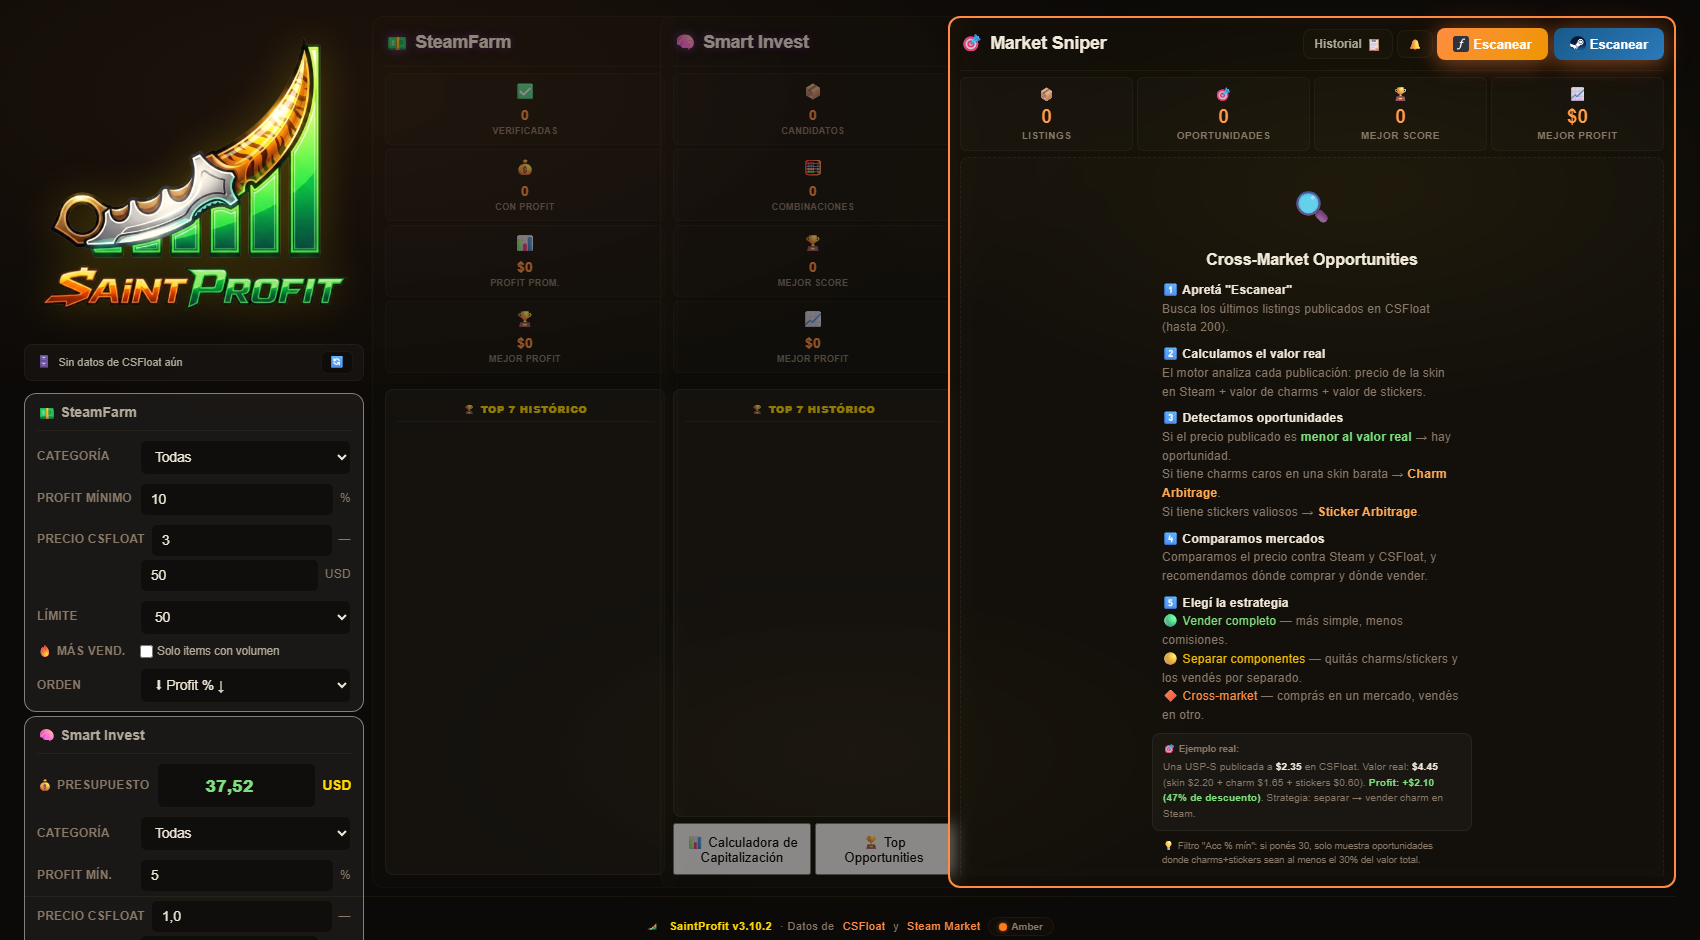
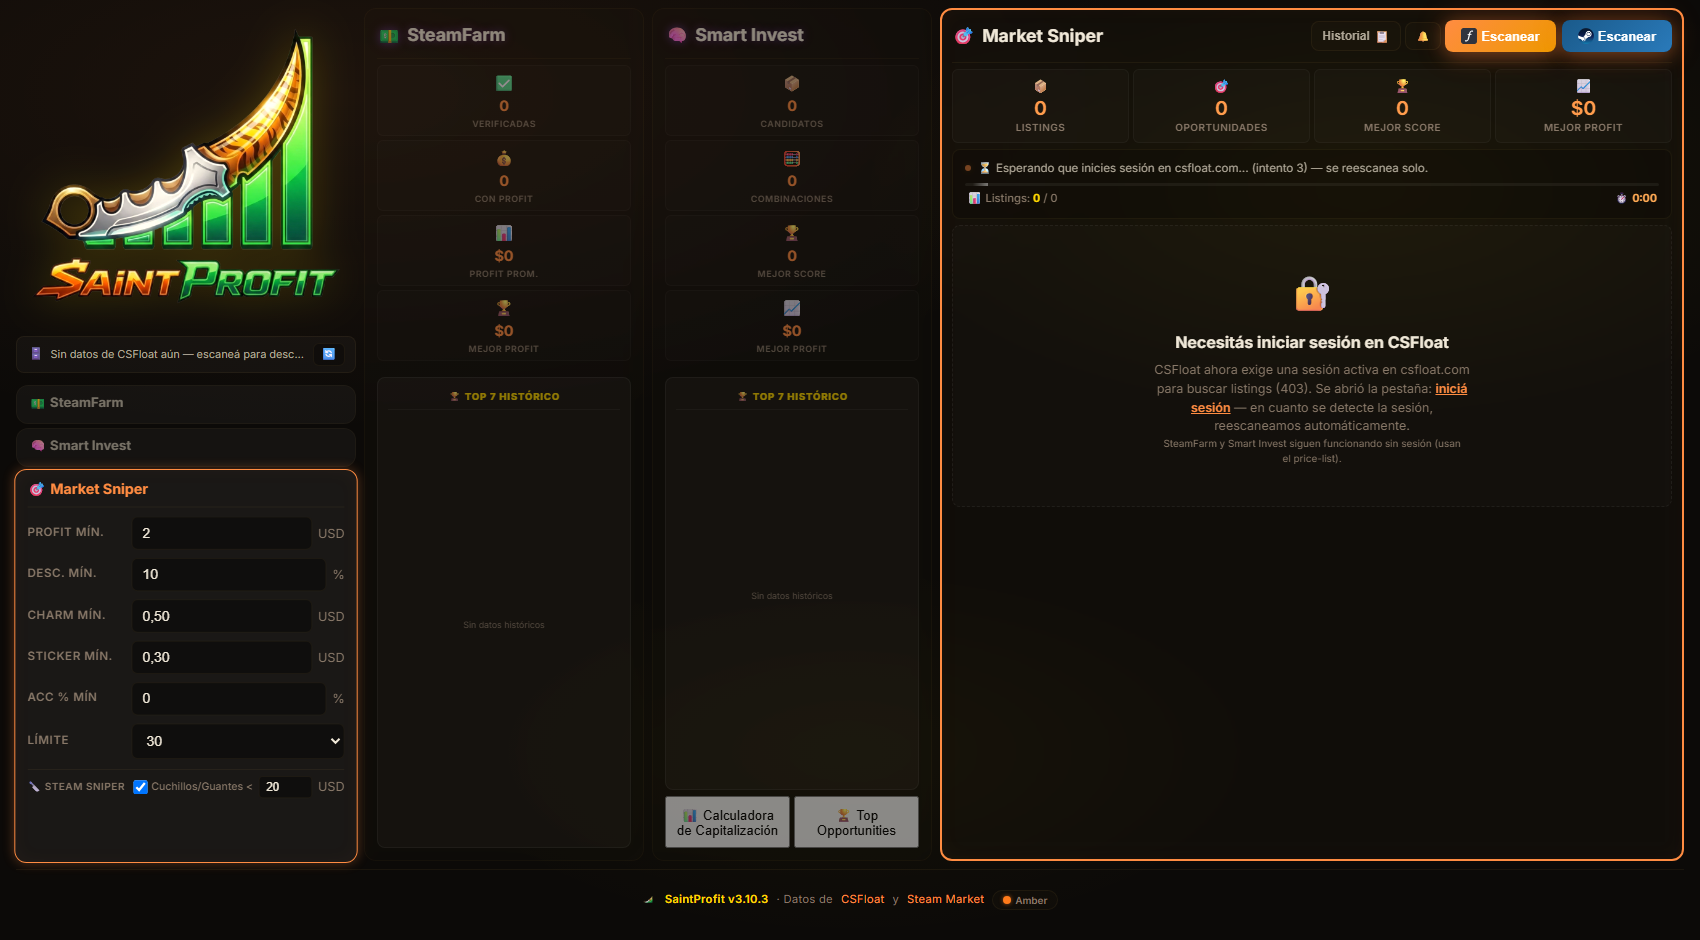
SaintProfit docs — Captura Market Sniper con sesión csfloat.com + avisos en README y docs
La captura del modo Market Sniper ahora muestra el estado "Necesitás
iniciar sesión en CSFloat" (v3.10.3), y el README y el sitio documentan
que los listings requieren sesión iniciada en csfloat.com y el reescaneo
automático al detectarla.

Generated with Codebuff 🤖

diff --git a/docs/index.html b/docs/index.html
@@ -131,6 +131,7 @@
           <span class="mode-chip chip-red">🎯 Market Sniper</span>
           <h3>Cazá publicaciones mal valoradas</h3>
           <p>Detecta listings donde el vendedor puso mal el precio: skins con charms caros que no valoró, stickers escondidos, o cuchillos/guantes publicados muy por debajo de su valor.</p>
+          <div class="note">🔐 <strong>Requiere sesión de csfloat.com</strong> (desde v3.10.3): sin sesión la app te avisa y abre la pestaña para iniciar sesión; al detectarla, reescanea sola.</div>
           <ul class="mode-points">
             <li>✅ 🔪 Alerta roja automática: cuchillos/guantes &lt; $20 en Steam</li>
             <li>✅ Valor real = skin + charms + stickers (calculado de verdad)</li>
@@ -139,8 +140,8 @@
           </ul>
         </div>
         <div class="screenshot">
-          <img src="assets/screenshots/mode-sniper.png" alt="Captura del modo Market Sniper con el tema Amber" loading="lazy">
-          <span class="shot-caption">🎯 Market Sniper · tema Amber</span>
+          <img src="assets/screenshots/mode-sniper.png" alt="Captura del modo Market Sniper pidiendo sesión de csfloat.com (tema Amber)" loading="lazy">
+          <span class="shot-caption">🎯 Market Sniper · sin sesión, pedís login en csfloat.com (tema Amber)</span>
         </div>
       </div>
     </div>
@@ -215,6 +216,7 @@
             <li><strong>Elegí el modo</strong> desde el popup.</li>
             <li><strong>Activá el escaneo de cuchillos:</strong> marcá “Cuchillos/Guantes &lt; $20” en los filtros.</li>
             <li><strong>Escaneá:</strong> botón naranja = CSFloat · botón azul = Steam.</li>
+            <li><strong>Iniciá sesión en csfloat.com</strong> la primera vez: sin sesión los listings de CSFloat no se pueden buscar. La extensión te avisa, abre la pestaña y <strong>reescanea sola</strong> al detectar la sesión.</li>
             <li><strong>Mirá el valor real:</strong> el breakdown muestra skin + charms + stickers por separado.</li>
             <li><strong>La alerta roja:</strong> si aparece un cuchillo/guante barato, tapá <em>🛒 COMPRA INMEDIATA</em> para abrirlo en Steam.</li>
           </ol>

diff --git a/README.md b/README.md
@@ -2,7 +2,9 @@
 
 > 🌐 **Sitio web de documentación:** [saintprofit — GitHub Pages](https://marianojsc21.github.io/cs-arbitrage-extension/) — guía visual de los 3 modos, instalación paso a paso y preguntas frecuentes, pensada para usuarios no técnicos.
 >
-> ⚙ **Para activar el sitio:** Repo Settings → Pages → **Deploy from a branch** → `main` → carpeta **`/docs`** → Save. El sitio vive en `docs/index.html`; las capturas de los modos son mockups CSS que podés reemplazar por screenshots reales (guarda las imágenes en `docs/assets/`).
+> ⚙ **Para activar el sitio:** Repo Settings → Pages → **Deploy from a branch** → `main` → carpeta **`/docs`** → Save. El sitio vive en `docs/index.html`; las capturas reales de los 3 modos están en `docs/assets/screenshots/` (PNG 1700×940, tema Amber). Para regenerarlas: abrí `app.html` en el navegador, activá el modo y sacá la captura (Market Sniper: escaneá primero para mostrar su estado real).
+>
+> 🔐 **Market Sniper y la sesión de csfloat.com (desde v3.10.3):** la API de listings de CSFloat exige estar logueado en csfloat.com. Sin sesión, la app muestra el aviso 🔐 y abre la pestaña para iniciar sesión; en cuanto la detecta, **reescanea sola**. La captura del modo en el sitio refleja ese estado.
 
 **SaintProfit** (v3.10.3) es una extensión de navegador (Brave/Chrome) que detecta **oportunidades de arbitraje** entre **CSFloat** y **Steam Market** para artículos de Counter-Strike 2 (CS2).
 
